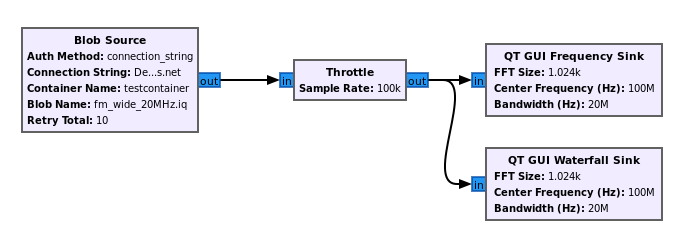
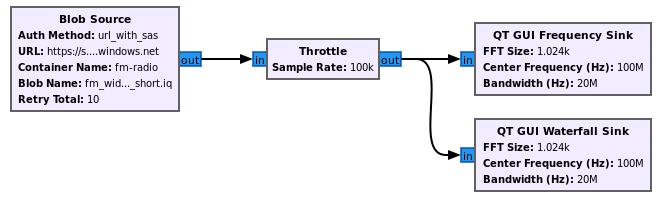
updates grc and text and screenshot to use sas and lukes new storage account

Changed region(s): [[0.0, 0.0286, 0.994, 0.9143], [0.7229, 0.0857, 0.994, 0.1143], [0.3916, 0.1714, 0.5723, 0.2]]

diff --git a/docs/stage1/hello_world_stage1.md b/docs/stage1/hello_world_stage1.md
@@ -189,29 +189,10 @@ And then hover over the center of the signal with your cursor to see the frequen
 
 The point of this demonstration was to show how an RF recording stored in blob storage can be pulled down into a GNU Radio flowgraph, which can then visualize the recording in time and frequency. 
 
-### Setting Up Your Own Storage Account
+If you would like to be able to upload your own signal recordings and store them in the cloud, you will need to [create an Azure storage account](https://docs.microsoft.com/en-us/azure/storage/common/storage-account-create?tabs=azure-portal), and then [create a container](https://docs.microsoft.com/en-us/azure/storage/blobs/blob-containers-powershell) within that storage account.  The container's access level must be set to `Container (anonymous read access for containers and blobs)` to use the `url_with_sas` authentication option without having to actually add a SAS token to the URL.  Note the name of your storage account and the name of your container, because it will determine what goes in the Blob Source/Sink block parameters in GNU Radio.  The URL will use the format: https://yoursa.blob.core.windows.net replacing `yoursa` with your storage account name.  The container and blob name is entered as its own parameter in the block.
 
-This last portion of Stage 1 is optional; we will show you how to set up your own Azure Storage Account so you can upload/download your own blobs.  If you would like to be able to upload your own signal recordings and store them in the cloud, you will need to create an Azure Storage Account with at least one blob container.  The following lines can be entered into Azure CLI, either using Azure Portal in the browser or a local Azure CLI, to create a storage account and container (replace my-rg with your resource group name, and 1234 with a unique set of numbers):
-```console
-az login
-az storage account create \
-  --name iqblobsa1234 \
-  --resource-group my-rg \
-  --location eastus \
-  --sku Standard_RAGRS \
-  --kind StorageV2
-az container create \
-  --resource-group my-rg
-  --name container1
-```
+<center><img src="images/blob_source_properties.png" width="400"/></center>
 
-Note the name of your storage account and the name of your container, because it will determine what goes in the Blob Source/Sink block parameters in GNU Radio.  The URL will use the format: https://yoursa.blob.core.windows.net replacing yoursa with your storage account name.  The container name is entered as its own parameter in the block, and you also need to choose the name of the blob being read/written.  
+Additionally, if the access level is set as described, for convinience sake you can download the file via browser by going to the url plus the container and blob name appended on, for example:  https://softwareradiohelloworld.blob.core.windows.net/fm-radio/fm_wide_20MHz_short.iq
 
-To get the connection string for your storage account, either use the Access Keys window in Azure Portal (when under the storage account), or type the following Azure CLI command:
-```console
-az storage account show-connection-string
-```
-
-Note that using connection strings is, in general, not considered good security practice, as they essentially contain a password in plaintext.  We are only using them here because 1) the IQ blobs for these tutorials are intended to be shared publicly anyway, and 2) there are many different methods of authenticating to Azure, the details depend on your specific situation, and we didn't want to include that compexity in these beginner-level tutorials.
-
-For the next stage see **[Stage 2](stage2/hello_world_stage2.md)** 
+For the next stage see **[Stage 2](../stage2/hello_world_stage2.md)** 
